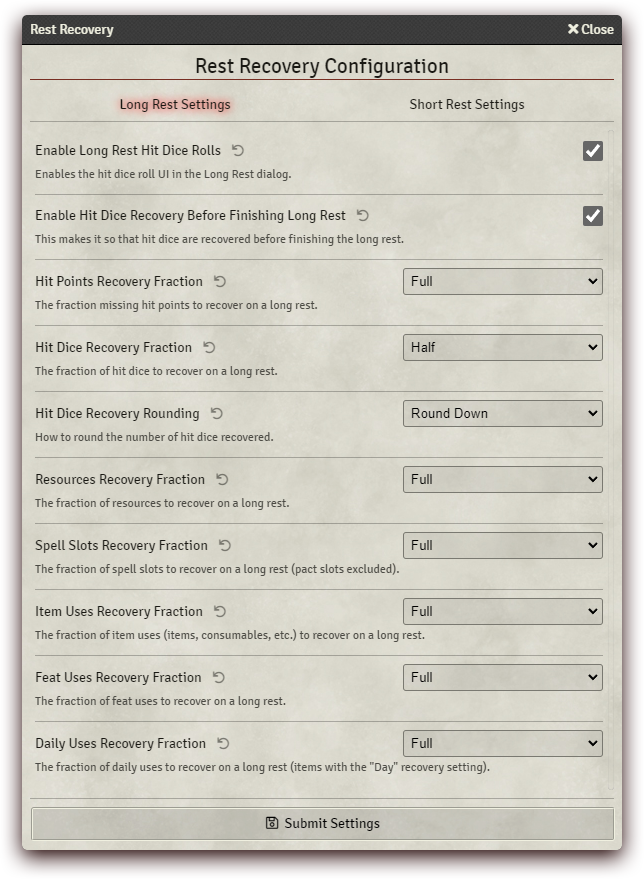
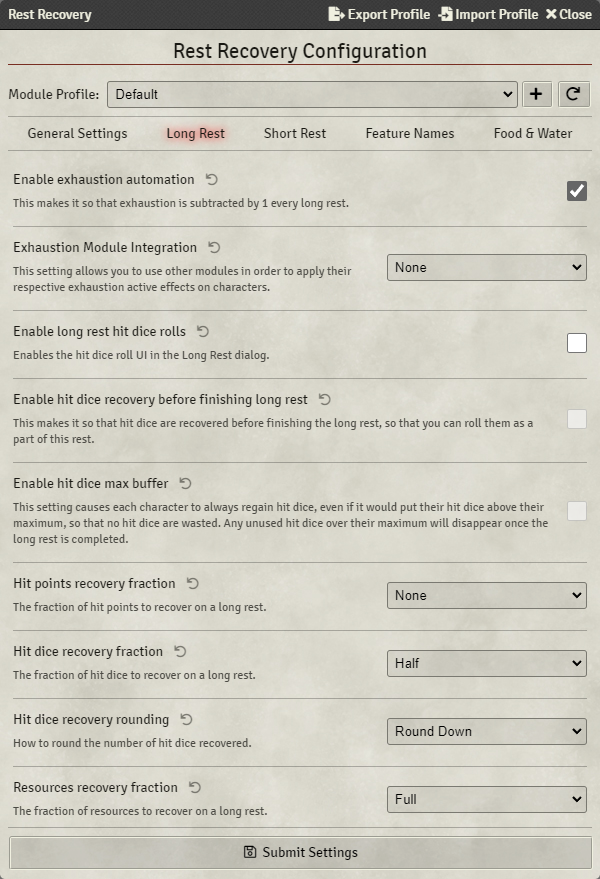
Docs

Changed region(s): [[0.0, 0.0, 1.0, 1.0], [0.42, 0.1229, 0.54, 0.1843], [0.6, 0.3686, 0.69, 0.3993]]

diff --git a/scripts/api.js b/scripts/api.js
@@ -3,14 +3,30 @@ import CONSTANTS from "./constants.js";
 
 export default class API {
 
+    /**
+     * Returns an array containing all the module profile names
+     *
+     * @returns {string[]}
+     */
     static getAllProfiles(){
         return Object.keys(this.getAllProfilesData());
     }
 
+    /**
+     * Returns the module profile object with each ones' settings
+     *
+     * @returns {object}
+     */
     static getAllProfilesData(){
         return lib.getSetting(CONSTANTS.SETTINGS.MODULE_PROFILES);
     }
 
+    /**
+     * Returns a given module profile's data if it exists
+     *
+     * @param {string} inProfileName
+     * @returns {object}
+     */
     static getProfileData(inProfileName){
         const profile = this.getAllProfilesData()[inProfileName];
         if(!profile){
@@ -20,14 +36,30 @@ export default class API {
         return profile;
     }
 
+    /**
+     * Returns the name of the active module profile
+     *
+     * @returns {string}
+     */
     static getActiveProfile(){
         return lib.getSetting(CONSTANTS.SETTINGS.ACTIVE_MODULE_PROFILE)
     }
 
+    /**
+     * Returns the data for the active module profile
+     *
+     * @returns {object}
+     */
     static getActiveProfileData(){
         return this.getProfileData(this.getActiveProfile());
     }
 
+    /**
+     * Sets the current active module profile
+     *
+     * @param {string} inProfileName
+     * @returns {Promise<object>}
+     */
     static async setActiveProfile(inProfileName){
         await lib.setSetting(CONSTANTS.SETTINGS.ACTIVE_MODULE_PROFILE, inProfileName);
         const profile = this.getProfileData(inProfileName);
@@ -39,18 +71,32 @@ export default class API {
         return profile;
     }
 
+    /**
+     * Updates all module profiles with new settings.  This may be a partial update (such as only updating some keys of some profiles).
+     *
+     * @param {object} inProfiles
+     * @returns {Promise<*>}
+     */
     static updateProfiles(inProfiles){
         const defaultSettings = CONSTANTS.GET_DEFAULT_SETTINGS();
         for(let profileName of Object.keys(inProfiles)) {
             const profileData = {};
+            const originalProfileData = this.getProfileData(profileName);
             for (let key of Object.keys(defaultSettings)) {
-                profileData[key] = inProfiles[profileName][key] ?? defaultSettings[key].default;
+                profileData[key] = inProfiles[profileName][key] ?? originalProfileData[key] ?? defaultSettings[key].default;
             }
             inProfiles[profileName] = profileData;
         }
         return lib.setSetting(CONSTANTS.SETTINGS.MODULE_PROFILES, inProfiles);
     }
 
+    /**
+     * Applies new settings on a given module profile. This may be a partial update (such as only updating one key of a given profile).
+     *
+     * @param {string} inProfileName
+     * @param {object} inData
+     * @returns {Promise<*>}
+     */
     static updateProfile(inProfileName, inData){
         const profile = this.getProfileData(inProfileName);
         const profiles = this.getAllProfilesData();
@@ -63,6 +109,15 @@ export default class API {
         return lib.setSetting(CONSTANTS.SETTINGS.MODULE_PROFILES, profiles);
     }
 
+    /**
+     * Sets the food, water, and/or starvation levels of a given actor.
+     *
+     * @param {Actor} actor
+     * @param {number|null} [food] food
+     * @param {number|null} [water] water
+     * @param {number|null} [starvation] starvation
+     * @returns {Promise<boolean>}
+     */
     static setActorConsumableValues(actor, { food = null, water = null, starvation} = {}){
         if(!(actor instanceof game.dnd5e.entities.Actor5e)){
             throw new Error("actor must instance of Actor5e")

diff --git a/README.md b/README.md
@@ -24,58 +24,34 @@ Like what we've done? Buy us a coffee!
 
 # What is Rest Recovery?
 
-This module aims to add support for the various rest mechanics in D&D 5e. This module adds support for alternative rules such as Long Rest Hit Dice Healing along with various modifiers (all optional), as well as most short rest mechanics, such as recharging spell slots for Druids and Wizards, Song of Rest from Bards, and bonuses from various feats and items.
+This module is a wholesale package that covers any and all mechanics relating to long and short rests, including (but not limited to);
+
+* Class features, such as regaining spell slots through the Wizard's Arcane Recovery and automatic handling of Bard's Song of Rest
+* HP Regaining through the Chef feat, and handling of the Tough feat and magic items such as the Periapt of Wound Closure
+* Fully featured long rest settings with a multitude of **completely optional** features:
+  * Rolling hit dice instead of regaining hit points
+  * Partial recovery of spell slots, class features, and/or resources
+  * Exhaustion automation
+  * Food & water handling, tracking the sated status and starvation over time
+
+The module continues to grow, and will expand further and further.
 
 # Installation
 Use this manifest URL to install the module:
 
 `https://github.com/fantasycalendar/FoundryVTT-RestRecovery/releases/latest/download/module.json`
 
+# Full list of features & documentation:
+
+## You can read more about the module on the [wiki](https://github.com/fantasycalendar/FoundryVTT-RestRecovery/wiki).
+
+![Image of the Rest Recovery 5e long rest settings](docs/rest-rules.png)
+
+
 # Changelog
 
 You can find the [changelog here](changelog.md).
 
-# Mechanics
-
-## Long Rest Mechanics
-
-By default, the long rest mechanics are set to the 5e defaults. However, in the module settings, you can configure a number of settings that was inspired and taken from the [Long Rest Hit Die Healing for 5e](https://github.com/a-ws-m/FVTT-Long-Rest-HD-Healing-5e) module.
-
-![Image of the Rest Recovery 5e long rest settings](docs/rest-rules.png)
-
-## Short Rest Mechanics
-
-![Image of a Fighter/Wizard multiclass with the Durable feat, Periapt of Wound Closure, and Arcane Recovery, in a party with a Bard with Song of Rest and the Chef feat](docs/all-together-now.png)
-
-### Feature: [Arcane Recovery](https://www.dndbeyond.com/classes/wizard#ArcaneRecovery-411) (Wizards), [Natural Recovery](https://www.dndbeyond.com/classes/druid#CircleoftheLand) (Druids)
-
-This module adds support for Wizards' Arcane Recovery and Land Druids' Natural Recovery within the short rest dialog.
-
-If the Arcane/Natural Recovery Feature does not have any uses remaining or if there are no spell slots to recover, the spell slot UI will be hidden.
-
-### Feature: [Song of Rest](https://www.dndbeyond.com/classes/bard#SongofRest-80)
-
-If there's a character that is assigned to a player with levels in the Bard class and someone rolls hit dice, the module will automatically roll the appropriate dice based on the bard's level.
-
-### Feat: [Durable](https://www.dndbeyond.com/feats/durable)
-
-If a character has the Durable feat, the minimum they can roll with hit dice is equal to twice their constitution modifier (works with the Periapt of Wound Closure).
-
-### Feat: [Chef](https://www.dndbeyond.com/feats/chef)
-
-If a character that is assigned to a player possesses the Chef feat as well as Chef's Utensils, each character in the party will roll an additional 1d8 as a part of the short rest.
-
-### Feature: [Black Blood Healing](https://www.dndbeyond.com/sources/ai/player-options#VerdanTraits)
-
-If a character has the lineage feature of a Verdan's Black Blood Healing, any hit dice with a 1 or 2 on the hit die roll will be automatically rerolled.
-
-### Item: [Periapt of Wound Closure](https://www.dndbeyond.com/magic-items/periapt-of-wound-closure)
-
-If a character is **attuned** to this item, any hit die rolled is doubled. According to RAW, this doubling happens _before_ the constitution modifier is added to the hit die roll.
-
-### Feature: [Blessing of Wound Closure](https://www.dndbeyond.com/sources/dmg/other-rewards#BlessingOfWoundClosure)
-
-Similar to above, but as a feature.
 
 # Contributing
 

diff --git a/changelog.md b/changelog.md
@@ -1,14 +1,14 @@
 # Rest Recovery Changelog
 
 ## Version 1.2.3
-- Added API under `game.restrecovery`, read more on the [wiki](https://google.com/)
+- Added API under `game.restrecovery`, read more on the [wiki](https://github.com/fantasycalendar/FoundryVTT-RestRecovery/wiki/Rest-Recovery-API)
 - Added optional setting for short rests to only be able to be completed if a certain number of hit dice are rolled
 - Added short rest recovery settings for items, feats, and resources
-- Added patch that turns non-configured Rations and Waterskins into consumable items compatible with Rest Recovery
+- Added patch that automatically turns non-configured Rations and Waterskins into consumable items compatible with Rest Recovery
 - Added text displaying how many more short rests an actor can take before having to take a long rest, if that setting is active 
 - Fixed wizards and circle of the land druids sometimes throwing errors or warnings surrounding class levels
 - Fixed minor issues in the settings UI surrounding loading module profiles
-- Fixed issues with D&D 5e version 1.5.7
+- Fixed issues with D&D 5e version 1.5.7 vs 1.6.0
 
 ## Version 1.2.2
 - Minor updates to French localization
